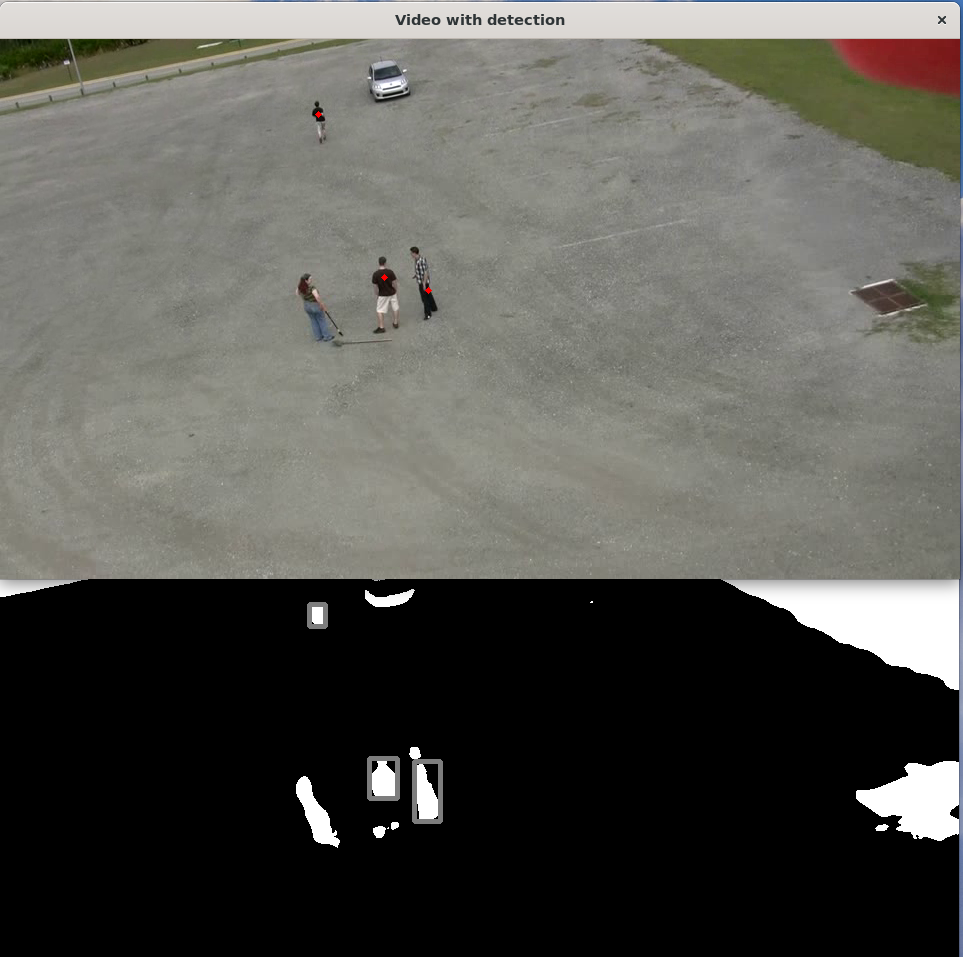
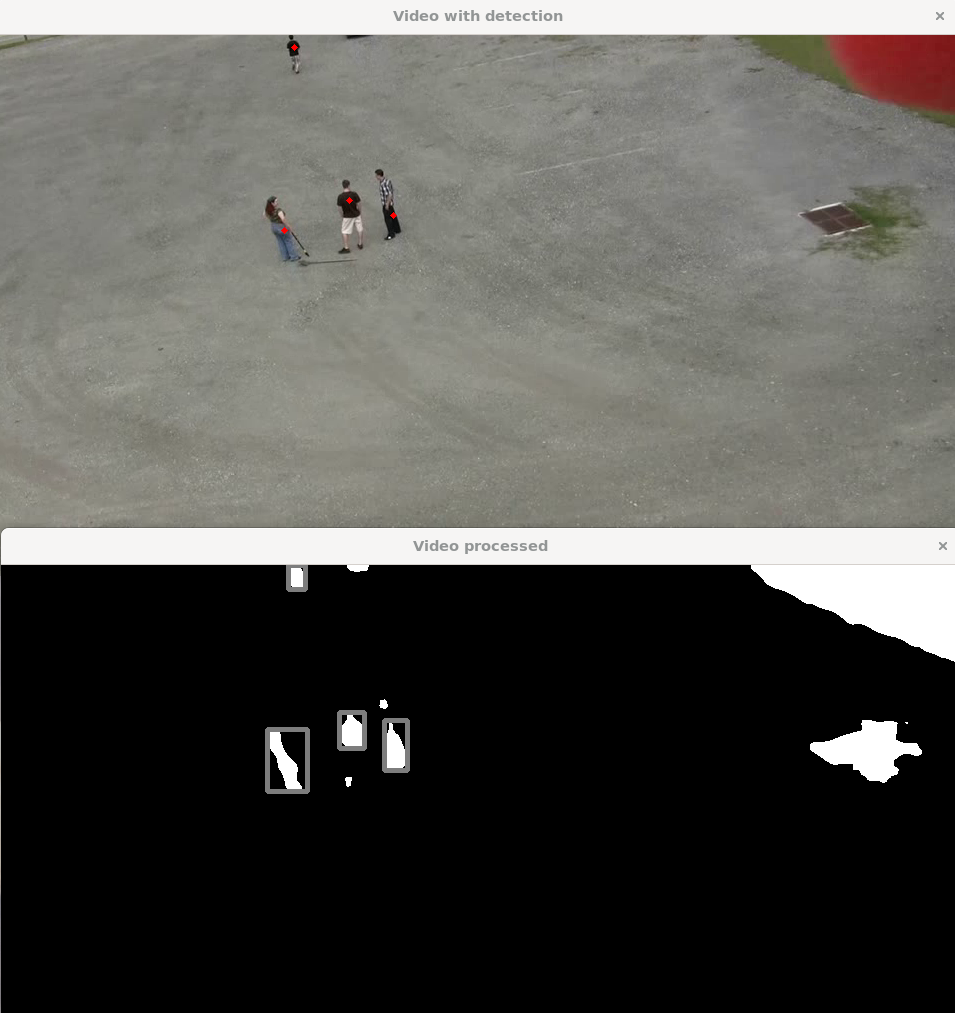
Add morphological filtering

diff --git a/main.cpp b/main.cpp
@@ -35,6 +35,9 @@ void process_frame(cv::Mat frame, cv::Mat* frame_proc_ptr, cv::Mat* frame_final_
     cv::threshold(frame_proc, frame_proc, 0, 255, cv::THRESH_BINARY | cv::THRESH_OTSU);
     cv::bitwise_not(frame_proc, frame_proc);
 
+    // Morphological filtering
+    cv::morphologyEx(frame_proc, frame_proc, cv::MORPH_CLOSE, cv::Mat(), cv::Point(-1,-1), 2);
+
     // Find contours
     std::vector<std::vector<cv::Point>> contours;
     cv::findContours(frame_proc, contours, cv::RETR_EXTERNAL, cv::CHAIN_APPROX_SIMPLE);
